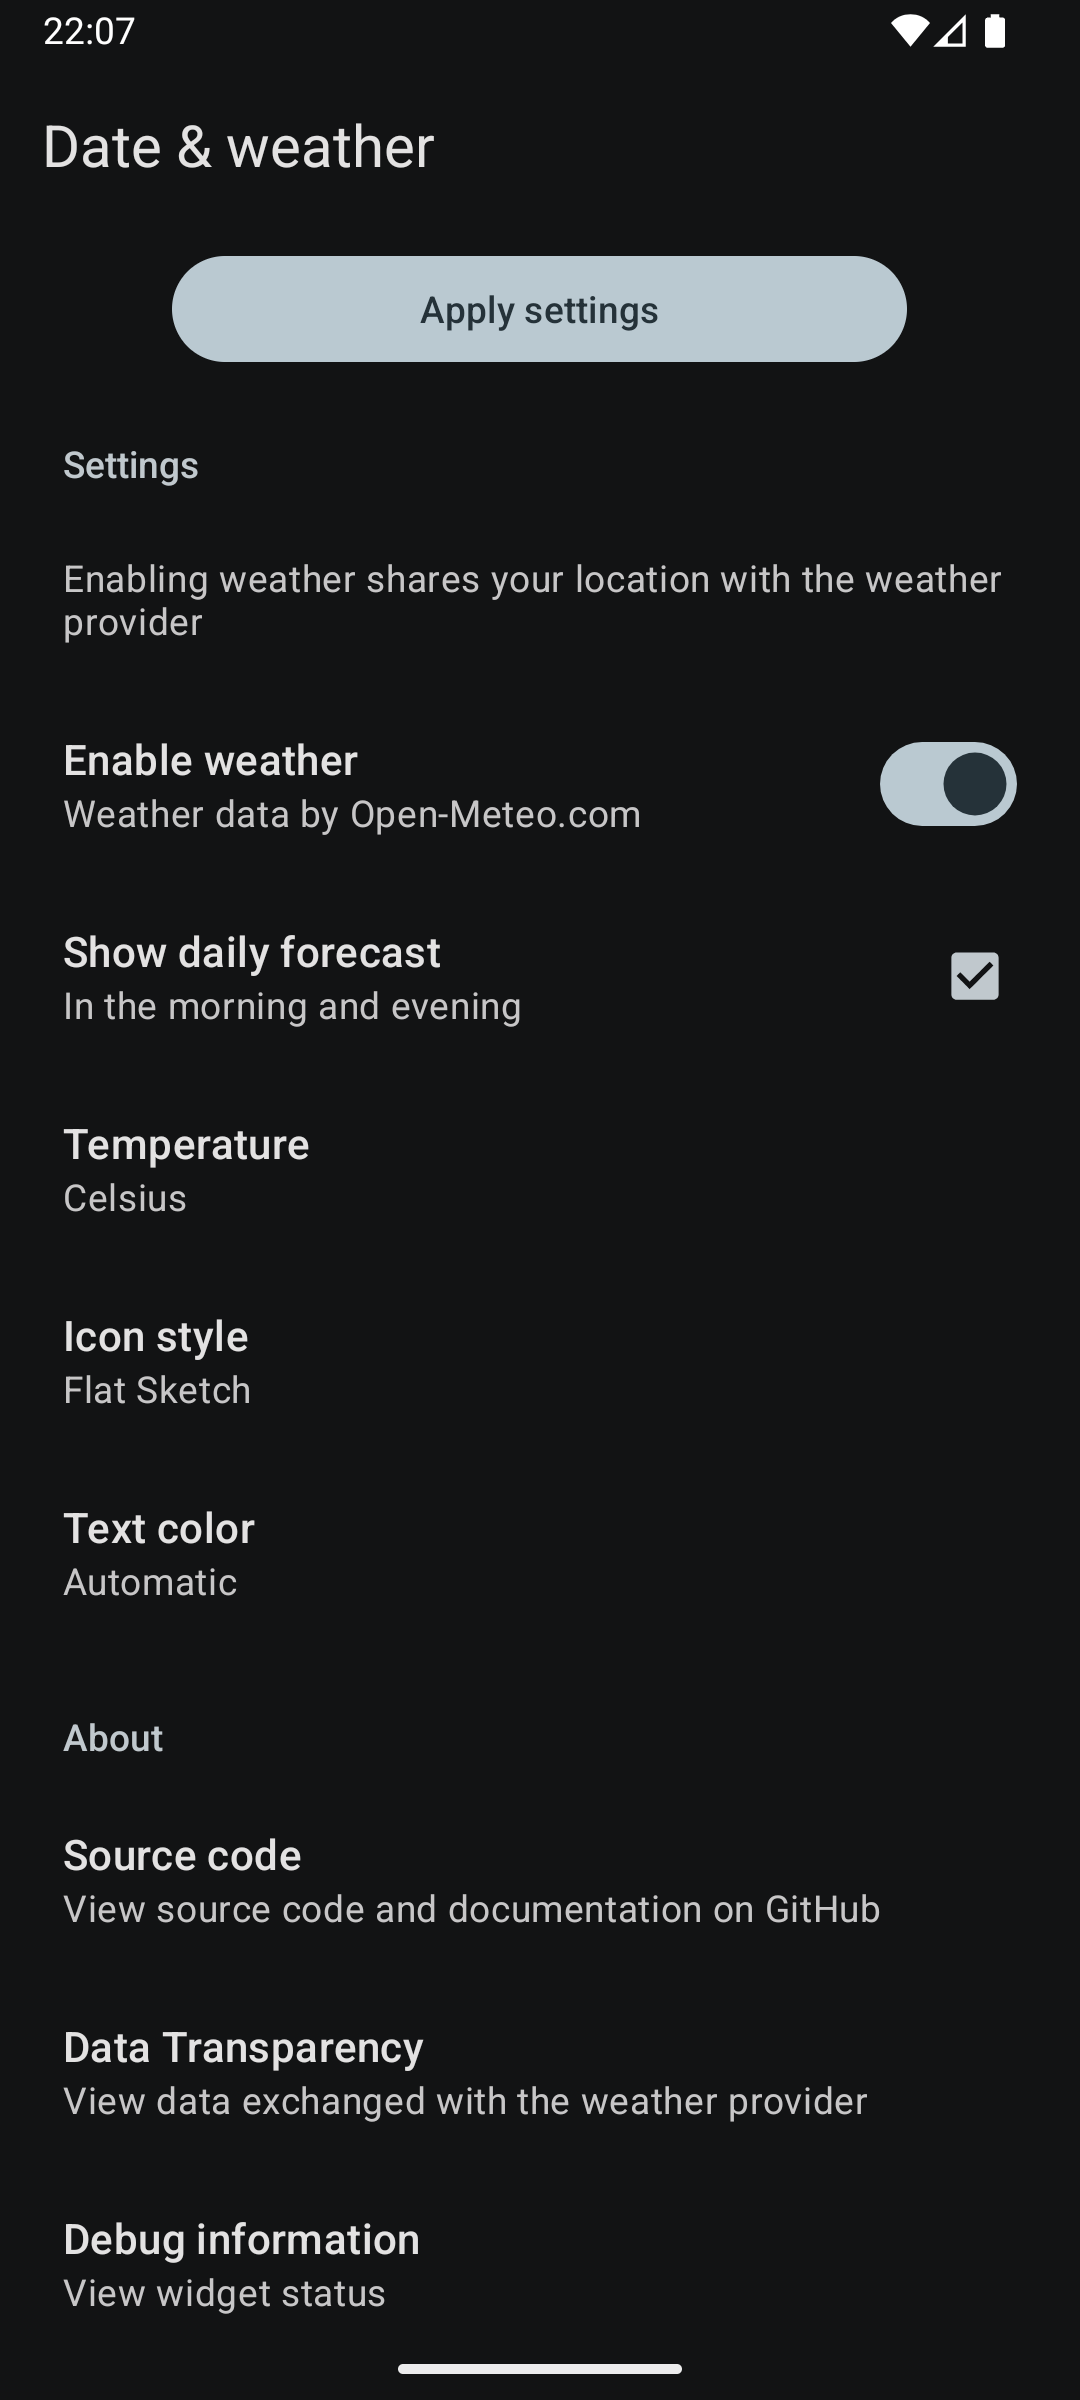
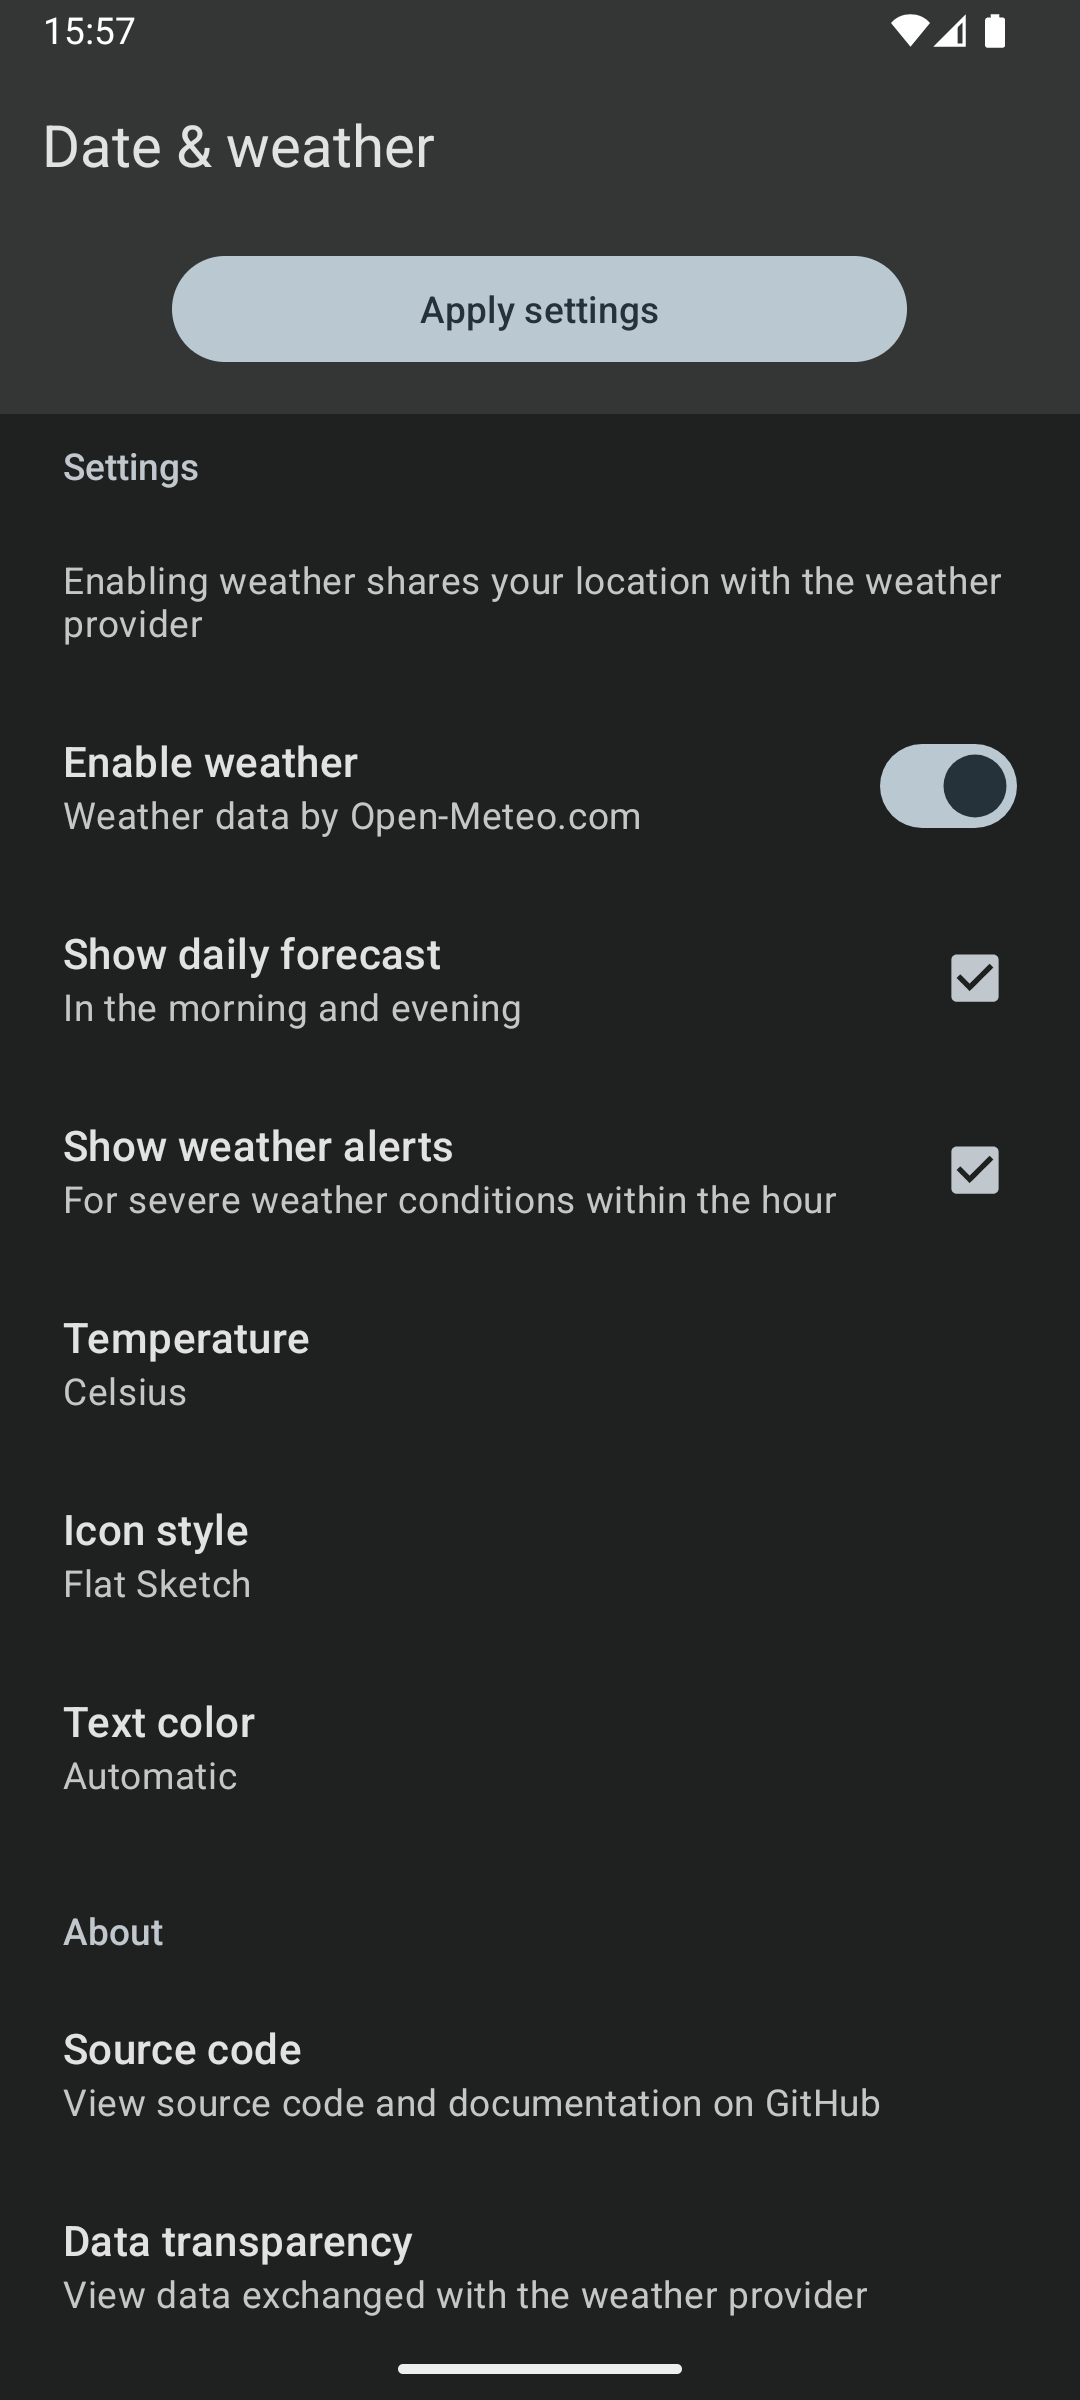
Adjust screenshots and readme

diff --git a/README.md b/README.md
@@ -57,17 +57,41 @@ Tapping the date or weather area on the widget will open the default calendar or
 
 Supported weather apps (among others): Google Weather, Breezy Weather.
 
-### Further Troubleshooting
+### Weather Alerts
+
+Severe and extreme weather alerts are shown if the following weather conditions are met:
+
+- **Severe UV warning:** Ultraviolet (UV) index of 8 or higher, according to [WHO](https://www.who.int/news-room/questions-and-answers/item/radiation-the-ultraviolet-(uv)-index) (very high UV level)
+
+- **Extreme UV warning:** Ultraviolet (UV) index of 11 or higher, according to [WHO](https://www.who.int/news-room/questions-and-answers/item/radiation-the-ultraviolet-(uv)-index) (extreme UV level)
+
+- **Excessive heat warning:** Apparent temperature exceeding 38 degrees Celsius, according to [DWD](https://www.dwd.de/DE/wetter/warnungen_aktuell/kriterien/warnkriterien.html) (warning level 3)
+
+- **Extreme heat warning:** Apparent temperature exceeding 43 degrees Celsius, inspired by [NWS](https://www.weather.gov/ama/heatindex) (dangerous heat index)
+
+- **Excessive rain warning:** Rain exceeding 25 mm/h and precipitation probability of at least 70%, according to [DWD](https://www.dwd.de/DE/wetter/warnungen_aktuell/kriterien/warnkriterien.html) (warning level 3)
+
+- **Extreme rain warning:** Rain exceeding 40 mm/h and precipitation probability of at least 90%, according to [DWD](https://www.dwd.de/DE/wetter/warnungen_aktuell/kriterien/warnkriterien.html) (warning level 4)
+
+- **Severe wind gust warning:** Wind gusts exceeding 105 km/h, according to [DWD](https://www.dwd.de/DE/wetter/warnungen_aktuell/kriterien/warnkriterien.html) (warning level 3)
+
+- **Extreme wind gust warning:** Wind gusts exceeding 140 km/h, according to [DWD](https://www.dwd.de/DE/wetter/warnungen_aktuell/kriterien/warnkriterien.html) (warning level 4)
+
+- **Severe thunderstorm warning:** Thunderstorm with severe rain or severe wind gusts, according to [DWD](https://www.dwd.de/DE/wetter/warnungen_aktuell/kriterien/warnkriterien.html) (warning level 3)
+
+- **Extreme thunderstorm warning:** Thunderstorm with extreme rain or extreme wind gusts, according to [DWD](https://www.dwd.de/DE/wetter/warnungen_aktuell/kriterien/warnkriterien.html) (warning level 4)
+
+### Troubleshooting
 
 If weather information does not appear, you can find debug information by tapping the **Debug information** field in the widget configuration. Try the following actions based on the displayed status:
 
-- **Location FAILED**: The widget could not retrieve your location. Ensure that location services are enabled on your device. See the Location Access section above.
+- **Location FAILED:** The widget could not retrieve your location. Ensure that location services are enabled on your device. See the Location Access section above.
 
-- **Location FAILED & Weather FAILED**: The widget failed to retrieve your location and thus, was not able to obtain weather data. Ensure that location services are enabled. Refer to the Location Access section above.
+- **Location FAILED & Weather FAILED:** The widget failed to retrieve your location and thus, was not able to obtain weather data. Ensure that location services are enabled. Refer to the Location Access section above.
 
-- **Location SUCCESS & Weather FAILED**: The widget retrieved your location but could not reach the weather provider. Ensure that your device is connected to the internet.
+- **Location SUCCESS & Weather FAILED:** The widget retrieved your location but could not reach the weather provider. Ensure that your device is connected to the internet.
 
-- **Worker ENQUEUED or RUNNING**: The background service for updating the widget is running correctly. If a different status appears, try re-enabling the weather service in the widget configuration.
+- **Worker ENQUEUED or RUNNING:** The background service for updating the widget is running correctly. If a different status appears, try re-enabling the weather service in the widget configuration.
 
 ## Donations
 